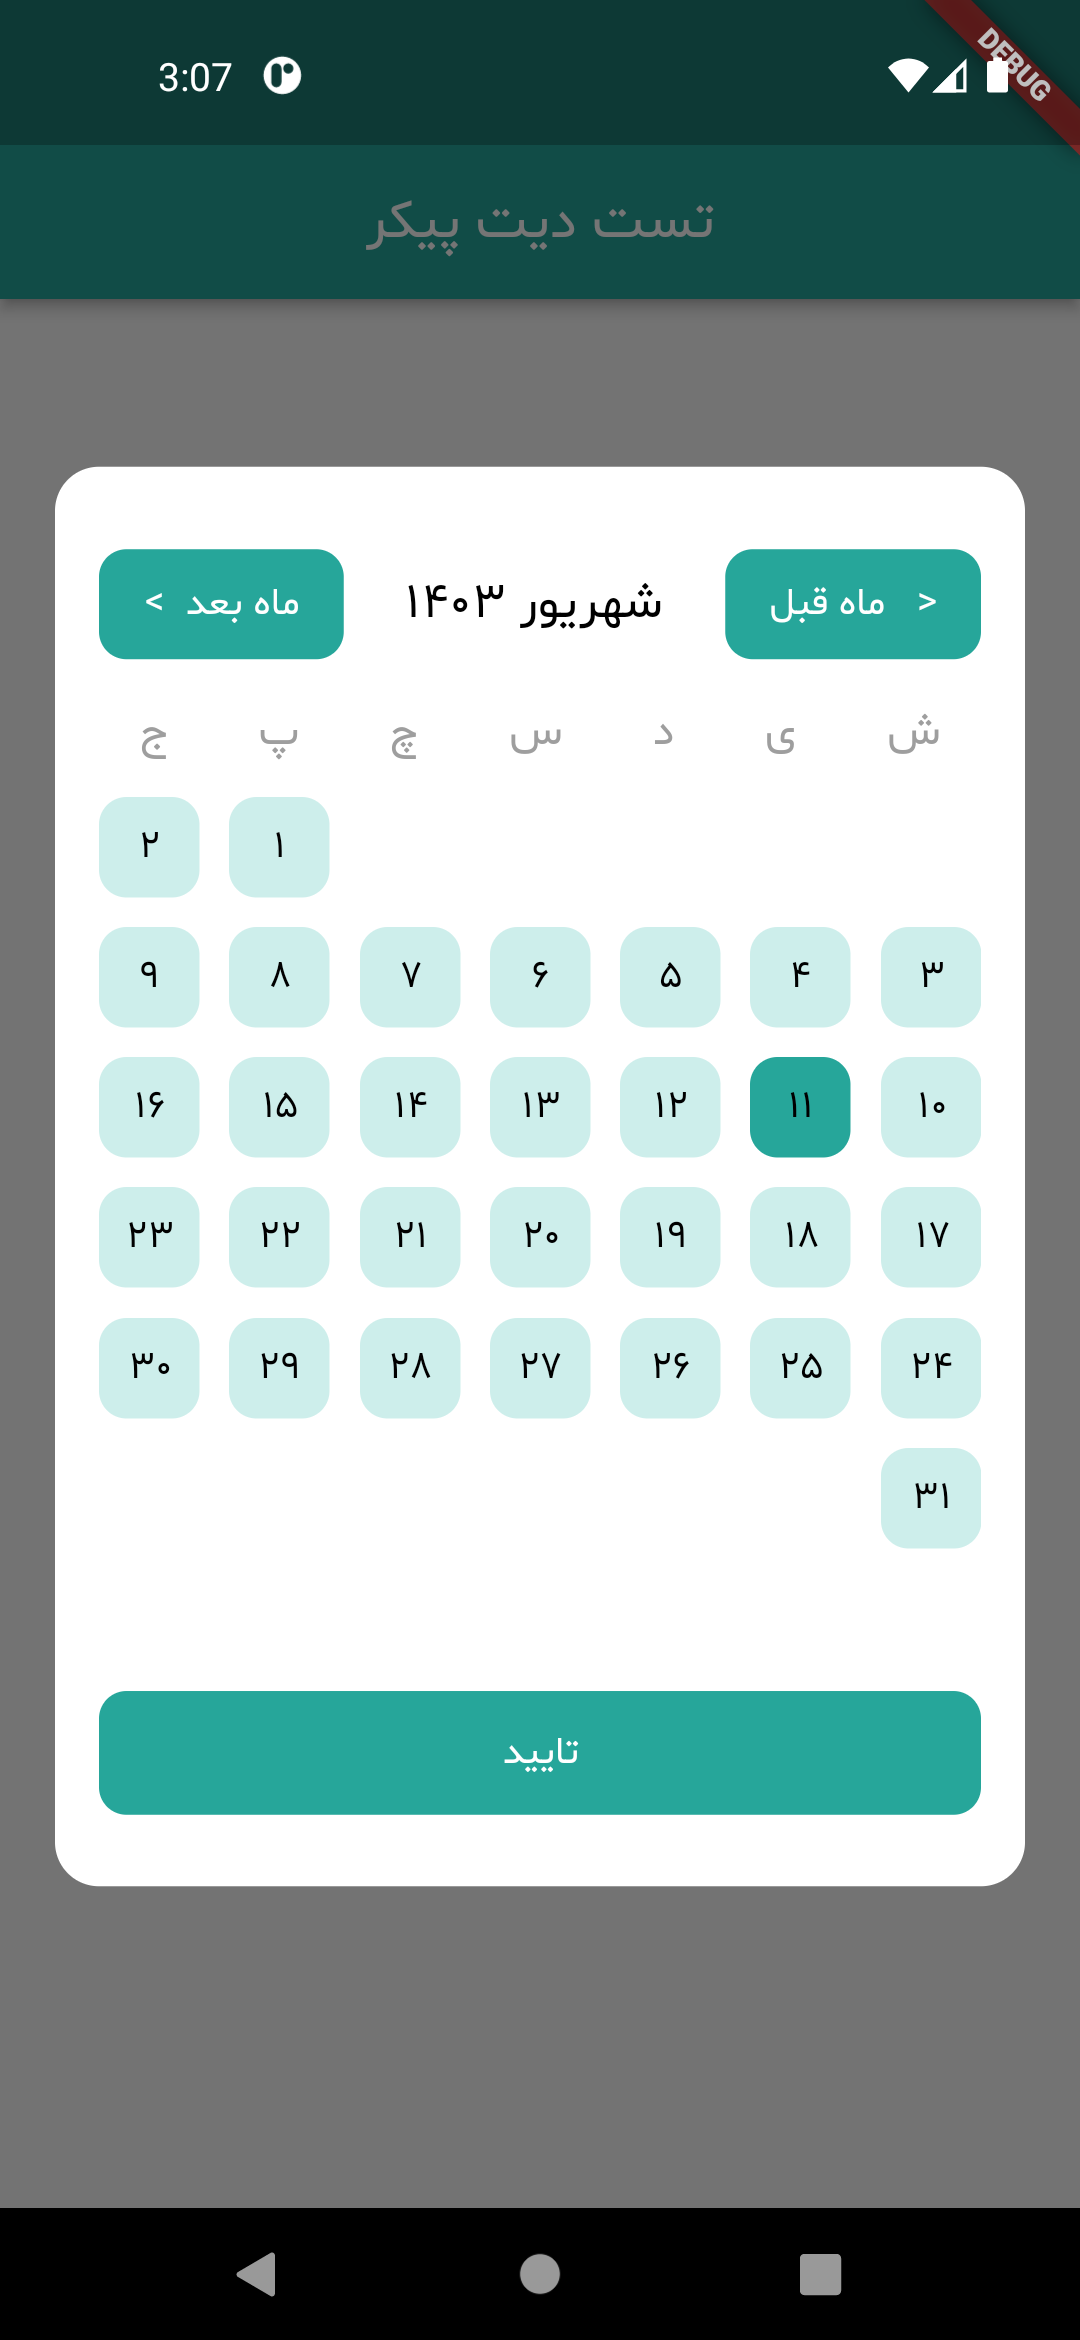
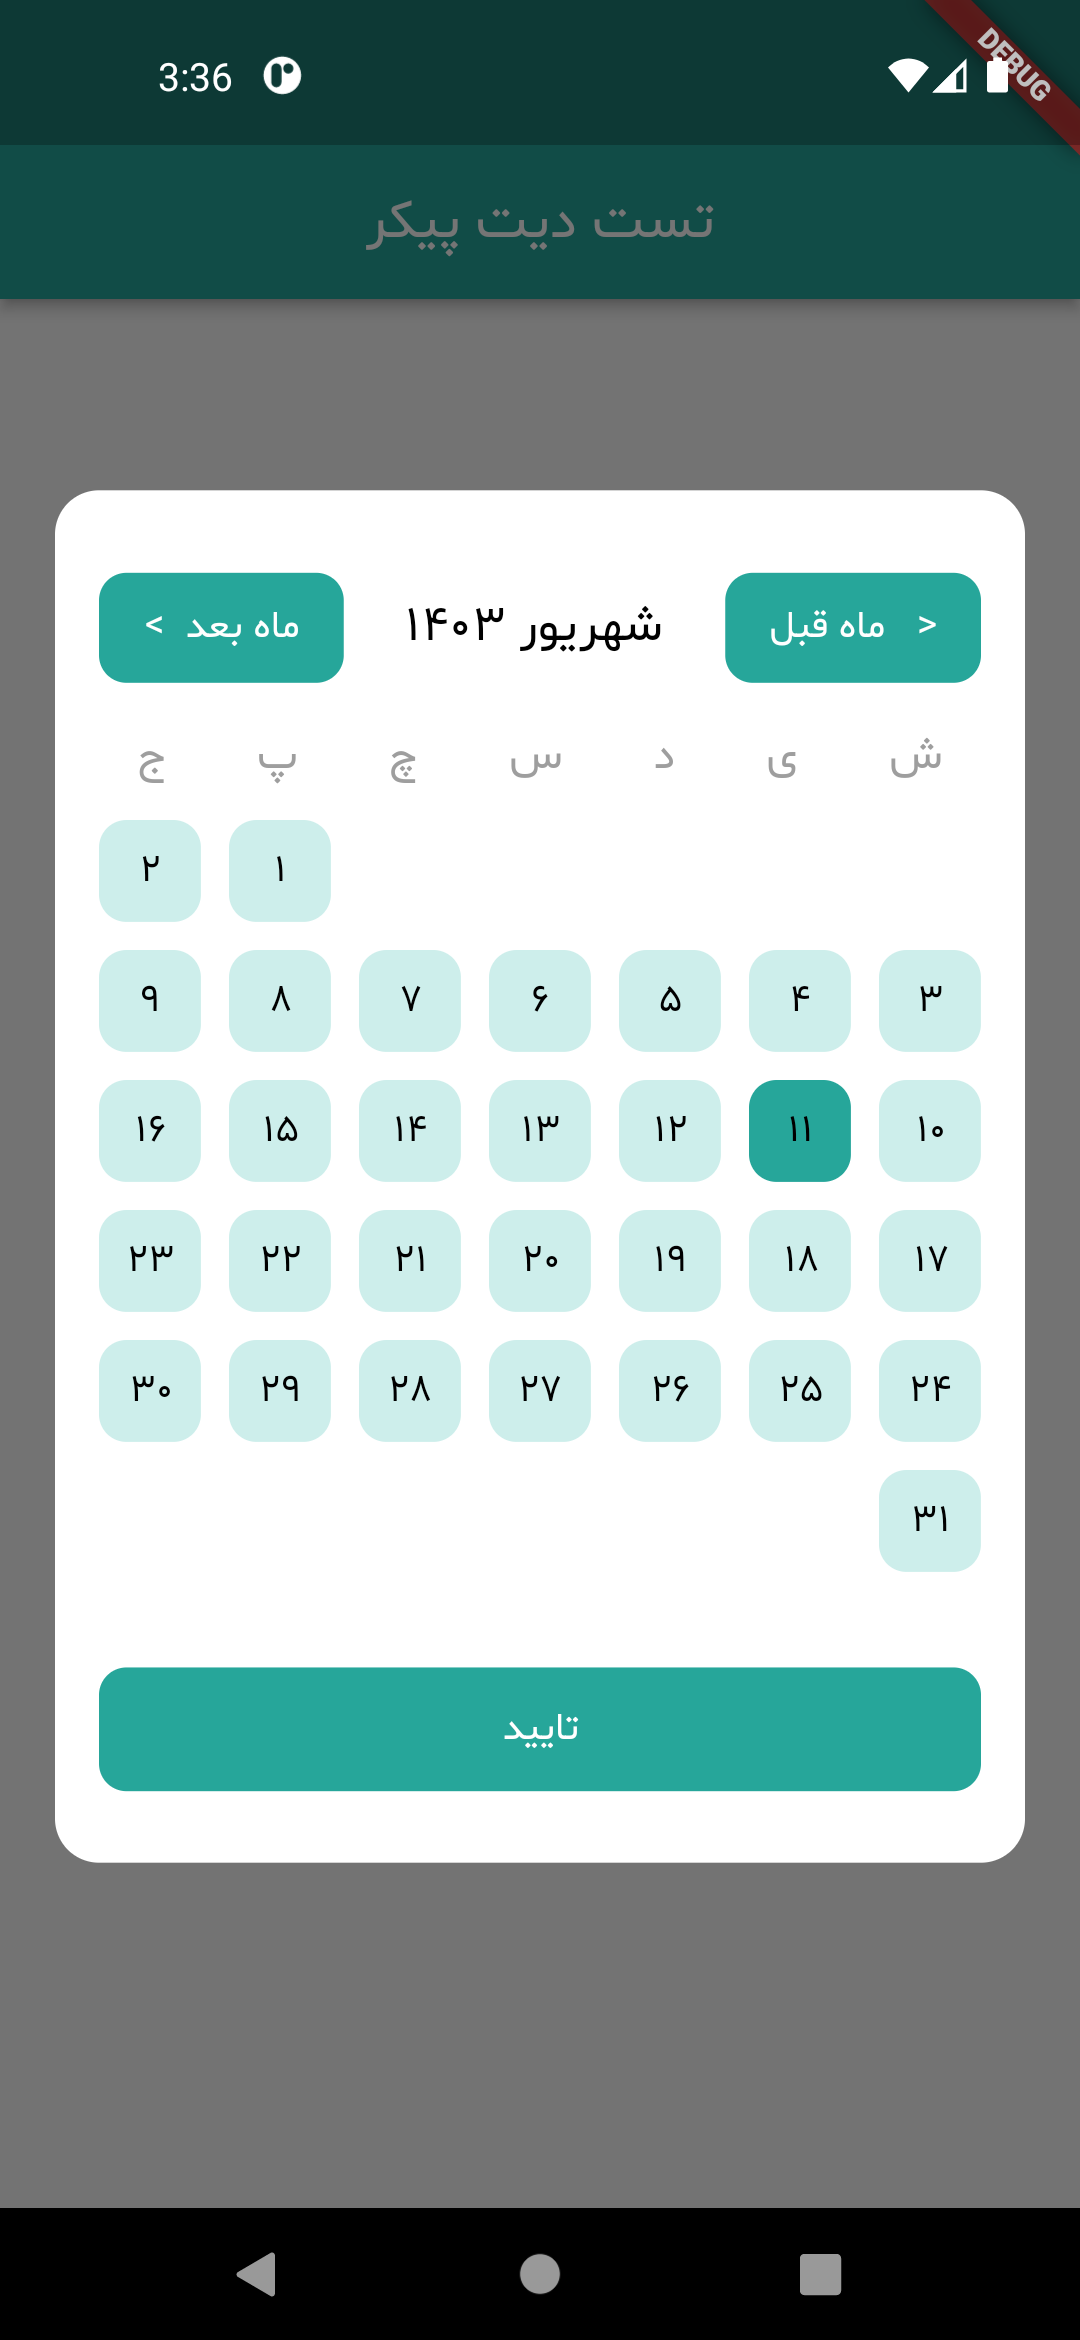
Example width bugfix

diff --git a/example/lib/main.dart b/example/lib/main.dart
@@ -41,8 +41,6 @@ class _DatePickerTestState extends State<DatePickerTest> {
 
   @override
   Widget build(BuildContext context) {
-    final double datePickerWidthWithPadding = MediaQuery.of(context).size.width - 32;
-
     return Scaffold(
       appBar: AppBar(title: const Text('تست دیت پیکر'), centerTitle: true),
       body: Center(
@@ -61,7 +59,7 @@ class _DatePickerTestState extends State<DatePickerTest> {
                     return Padding(
                       padding: const EdgeInsets.symmetric(horizontal: 16, vertical: 26),
                       child: PersianDatePicker(
-                        widthWithPadding: datePickerWidthWithPadding,
+                        widthWithPadding: MediaQuery.of(context).size.width - 32,
                         chosenDate: chosenDate,
                         onSubmitDate: (selectedDate) {
                           chosenDate = selectedDate;
@@ -104,7 +102,7 @@ class _DatePickerTestState extends State<DatePickerTest> {
                         child: Material(
                           color: Colors.transparent,
                           child: PersianDatePicker(
-                            widthWithPadding: datePickerWidthWithPadding,
+                            widthWithPadding: MediaQuery.of(context).size.width - 52,
                             chosenDate: chosenDate,
                             onSubmitDate: (selectedDate) {
                               chosenDate = selectedDate;
